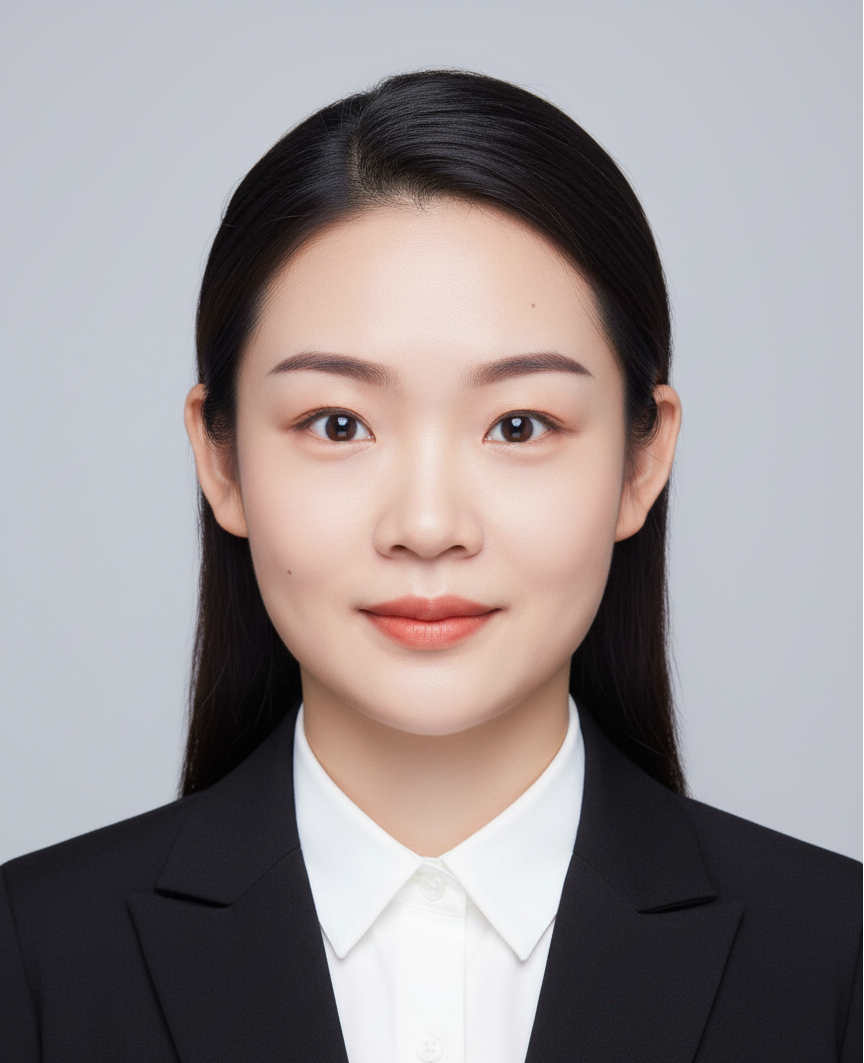
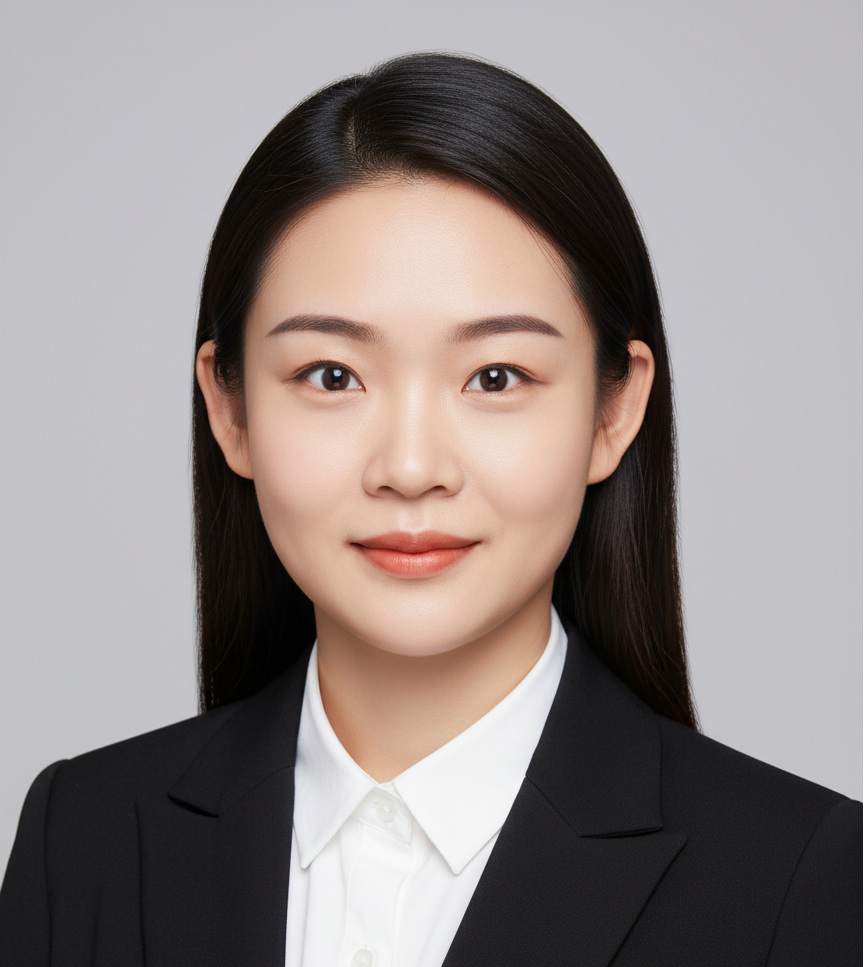
完善 博士禁用主页,然后点头像跳转外站; 重新生成部分老师头像

diff --git a/layouts/partials/blocks/people.html b/layouts/partials/blocks/people.html
@@ -1,0 +1,88 @@
+{{/* Hugo Blox: People */}}
+{{/* Documentation: https://hugoblox.com/blocks/ */}}
+{{/* License: https://github.com/HugoBlox/hugo-blox-builder/blob/main/LICENSE.md */}}
+
+{{/* Initialise */}}
+{{ $page := .wcPage }}
+{{ $block := .wcBlock }}
+{{ $show_social := $block.design.show_social | default false }}
+{{ $show_interests := $block.design.show_interests | default true }}
+{{ $show_organizations := $block.design.show_organizations | default false }}
+{{ $show_role := $block.design.show_role | default true }}
+
+<div class="row justify-content-center people-widget">
+  {{ with $block.content.title }}
+    <div class="section-heading col-12 mb-3 text-center">
+      <h1 class="mb-0">{{ . | markdownify | emojify }}</h1>
+      {{ with $block.content.subtitle }}<p class="mt-1">{{ . | markdownify | emojify }}</p>{{ end }}
+    </div>
+  {{ end }}
+
+  {{ with $block.content.text }}
+    <div class="col-md-12">
+      {{ . | emojify | $page.RenderString }}
+    </div>
+  {{ end }}
+
+  {{ range $block.content.user_groups }}
+    {{ $query := where (where site.Pages "Section" "authors") ".Params.user_groups" "intersect" (slice .) }}
+
+    {{/* Sort */}}
+    {{ $sort_by := $block.content.sort_by | default "Params.last_name" }}
+    {{ $sort_by = partial "blox-core/functions/get_sort_by_parameter" $sort_by }}
+    {{ $sort_ascending := $block.content.sort_ascending | default true }}
+    {{ $sort_order := cond $sort_ascending "asc" "desc" }}
+    {{ $query = sort $query $sort_by $sort_order }}
+
+    {{if $query | and (gt (len $block.content.user_groups) 1) }}
+      <div class="col-md-12">
+        <h2 class="mb-4">{{ . | markdownify }}</h2>
+      </div>
+    {{end}}
+
+    {{ range $query }}
+      {{ $avatar := (.Resources.ByType "image").GetMatch "*avatar*" }}
+      {{/* Get link to user's profile page. */}}
+      {{ $link := "" }}
+      {{ with site.GetPage (printf "/authors/%s" (path.Base .File.Dir)) }}
+        {{ $link = .RelPermalink }}
+      {{ end }}
+      <div class="col-12 col-sm-auto people-person">
+        {{ $src := "" }}
+        {{ if site.Params.features.avatar.gravatar }}
+          {{ $src = printf "https://s.gravatar.com/avatar/%s?s=150" (md5 .Params.email) }}
+        {{ else if $avatar }}
+          {{ $avatar_image := $avatar.Fill "270x270 Center" }}
+          {{ $src = $avatar_image.RelPermalink }}
+        {{ end }}
+        <!-- {{ if $src }}
+          {{ $avatar_shape := site.Params.features.avatar.shape | default "circle" }}
+          {{with $link}}<a href="{{.}}">{{end}}<img width="270" height="270" loading="lazy" class="avatar {{if eq $avatar_shape "square"}}avatar-square{{else}}avatar-circle{{end}}" src="{{ $src }}" alt="Avatar">{{if $link}}</a>{{end}}
+        {{ end }} -->
+         <!--1.改动: 判断是否有phd_only,有则跳到外站提供的链接-->
+        {{ $isPhD := .Params.phd_only | default false }}
+
+        {{ if $src }}
+          {{ $avatar_shape := site.Params.features.avatar.shape | default "circle" }}
+          {{ if $isPhD }}
+            <a href="{{ .Params.external_url }}" target="_blank" rel="noopener">
+              <img width="270" height="270" loading="lazy" class="avatar {{if eq $avatar_shape "square"}}avatar-square{{else}}avatar-circle{{end}}" src="{{ $src }}" alt="Avatar">
+            </a>
+          {{ else }}
+            {{with $link}}<a href="{{.}}">{{end}}
+              <img width="270" height="270" loading="lazy" class="avatar {{if eq $avatar_shape "square"}}avatar-square{{else}}avatar-circle{{end}}" src="{{ $src }}" alt="Avatar">
+            {{if $link}}</a>{{end}}
+          {{ end }}
+        {{ end }}
+
+        <div class="portrait-title">
+          <h2>{{with $link}}<a href="{{.}}">{{end}}{{ .Title }}{{if $link}}</a>{{end}}</h2>
+          {{ if and $show_organizations .Params.organizations }}{{ range .Params.organizations }}<h3>{{ .name }}</h3>{{ end }}{{ end }}
+          {{ if and $show_role .Params.role }}<h3>{{ .Params.role | markdownify | emojify }}</h3>{{ end }}
+          {{ if $show_social }}{{ partial "social_links" . }}{{ end }}
+          {{ if and $show_interests .Params.interests }}<p class="people-interests">{{ delimit .Params.interests ", " | markdownify | emojify }}</p>{{ end }}
+        </div>
+      </div>
+    {{ end }}
+  {{ end }}
+</div>

diff --git a/content/authors/博士一/_index.md b/content/authors/博士一/_index.md
@@ -1,22 +1,23 @@
 ---
 title: "博士一"
 
-first_name: Shiyi
-last_name: Bo
-
 index: 190
 
-organizations:
-  - name: 南京理工大学
-    url: ''
+# organizations:
+#   - name: 南京理工大学
+#     url: ''
 
 
 
-# ✅ 点击头像跳转外链
-external_link: "https://example.com/your-link"
+# 自定义标记
+phd_only: true
+external_url: "https://bio.duxy.cc/"
 
 
 user_groups:
   - Ph.D(博士)
+
+_build:
+  render: never   # 不生成 /people/博士一/ 页面
 ---
 
